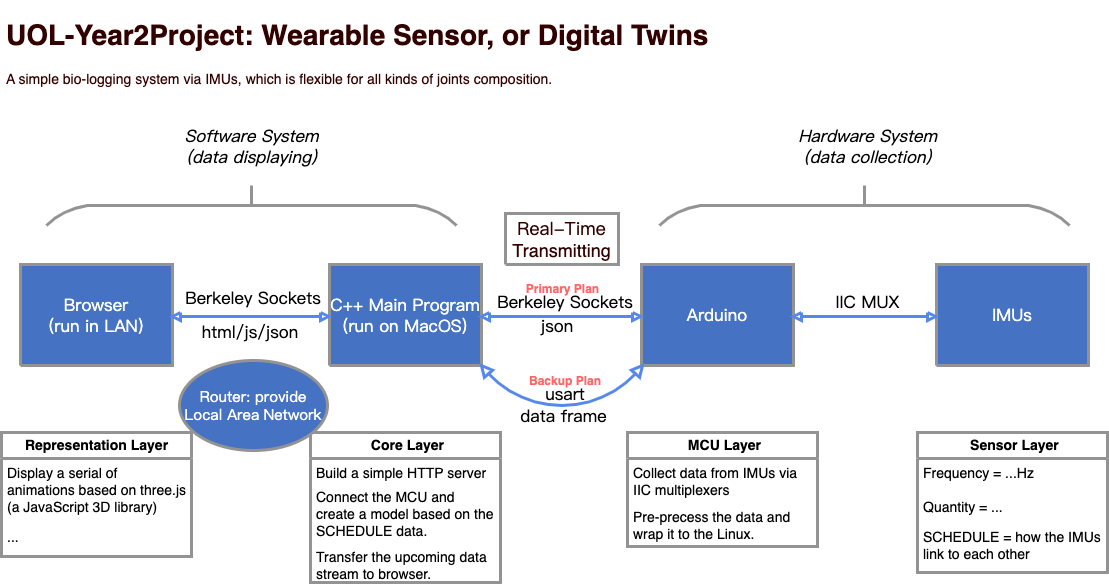
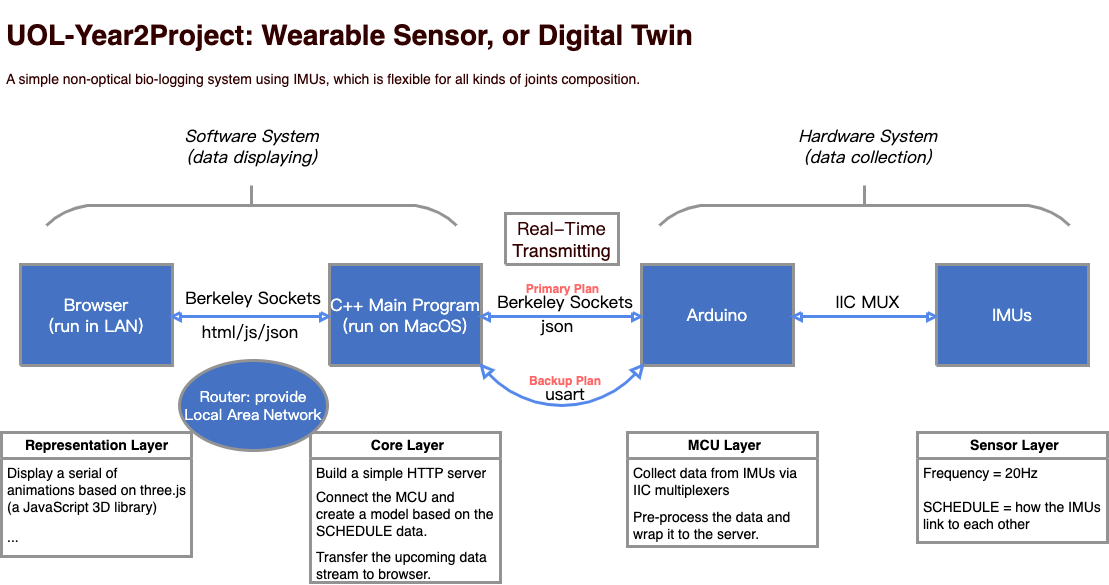
feat: final version

diff --git a/src/IMU_json.cpp b/src/IMU_json.cpp
@@ -5,7 +5,7 @@
 #include "IMU_json.h"
 
 std::string Euler_angle_t::toString() const {
-    return "{\"y\":" + data[0] + ",\"r\":" + data[1] + ",\"p\":" + data[2] + "}";
+    return "{\"r\":" + data[0] + ",\"p\":" + data[1] + "}";
 }
 
 std::string IMU_Data_t::toString() const {
@@ -55,7 +55,7 @@ std::string send_IMU_data() {
         char ch;
         int num = 0;
         while (true) {
-            if (num >= FRAME2BROWSER) break;
+            if (num >= FRAME2BROWSER+1) break;
             fs.get(ch);
             if (ch == '\n') num++;
             fs.seekg(-2,
@@ -67,19 +67,19 @@ std::string send_IMU_data() {
         IMU_Data_t IMU_data;
         Euler_angle_t Euler_angle;
         int split_idx;
-        for (int pose = 0; pose < FRAME2BROWSER - 1; ++pose) {
+        for (int pose = 0; pose < FRAME2BROWSER ; ++pose) {
 
             // Read the current line
             getline(fs, tmp);
             std::vector<std::string> v = split(tmp, " ");
 
             //except the time_idx "[19]"
-            split_idx = 1;
+            split_idx = 0;
 
             //store in the IMU_data struct
             for (int IMU_idx = 0; IMU_idx < IMU_NUM; ++IMU_idx) {
                 if (split_idx > v.size() - 1) break;
-                for (int angle_idx = 0; angle_idx < 3; ++angle_idx) {
+                for (int angle_idx = 0; angle_idx < (sizeof Euler_angle.data/ sizeof (std::string)); ++angle_idx) {
                     Euler_angle.data[angle_idx] = v.at(split_idx++);
                 }
                 IMU_data.data[IMU_idx].push_back(Euler_angle);

diff --git a/src/Socket.cpp b/src/Socket.cpp
@@ -129,15 +129,15 @@ namespace WearableSensor {
 
     void ArduinoSocket::loop() {
         INFO("ArduinoSocket FD is {}", this->getFileDescriptor());
-        char buffer[1024];
+        char buffer[512];
 
         std::string image_path = "../fileForServer/IMU_data.txt";
         while (true) {
-            INFO("ArduinoSocket::reading...");
+//            INFO("ArduinoSocket::reading...");
             memset(buffer, 0, sizeof buffer / sizeof(char));
 
-            this->recvResponse(buffer, 1024);
-//            this->readResponse(buffer, 1024);
+//            this->recvResponse(buffer, 512);
+            this->readResponse(buffer, 512);
 
             int img_fd;
             if ((img_fd = open(image_path.c_str(), O_WRONLY | O_APPEND)) == -1) {

diff --git a/src/IMU_json.h b/src/IMU_json.h
@@ -8,11 +8,12 @@
 #include <vector>
 #include <iostream>
 #include <fstream>
-#define FRAME2BROWSER 6
+#define FRAME2BROWSER 1
 #define IMU_NUM 5
-const std::string name[5]={"L_F","R_F","L_T", "R_T", "OnBrd"};
+const std::string name[IMU_NUM]={"L_F","R_F","L_T", "R_T", "OnBrd"};
 struct Euler_angle_t {
-    std::string data[3];
+    std::string data[2];
+//    std::string data[3];
     std::string toString() const;
 };
 
